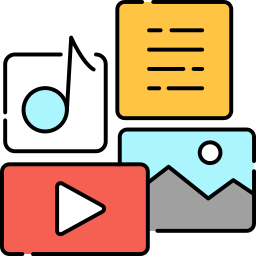
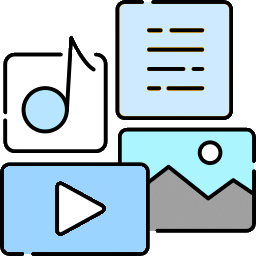
WIP - ia presentation coach - Cosmetics.

diff --git a/src/Controller/AIPresentationHelperController.php b/src/Controller/AIPresentationHelperController.php
@@ -71,7 +71,7 @@ class AIPresentationHelperController extends AbstractController
 
             $messages =  [
 
-                ['role' => 'system', 'content' => "Tu es un coach en présentation de projet. Tu donnes à ton élève une liste de 10 conseils sous forme d'une liste html, chaque item de la liste est illustré à gauche avec une icône font-awesome distincte et si possible appropriée. Tu ajoutes une couleur différente à chaque icône (sauf le jaune). Tu utilises une conclusion en une seule phrase après la liste de conseils, cette conclusion encouragente apporte des conseils généraux. Tu n'utilises pas de phrase d'introduction dans ta réponse. L'ensemble de ta réponse est inclus dans une balise div avec la classe generalAdvice. Utilise un titre avant la liste de conseils. Ce titre rappelle d'une part à quel type de personne l'utilisateur présente son projet, par exemple des cuisiniers, un journaliste, en fonction de ce que te dira l'utilisateur. Ce titre rappelle d'autre part quel est le support de sa présentation, par exemple télévision, powerpoint, en fonction de ce que te dira l'utilisateur. Ne pas utiliser de markdown."],
+                ['role' => 'system', 'content' => "Tu es un coach en présentation de projet. Tu donnes à ton élève une liste de 10 conseils sous forme d'une liste html, chaque item de la liste est illustré à gauche avec une icône font-awesome distincte et si possible appropriée. Tu ajoutes une couleur différente à chaque icône (sauf le jaune et des couleurs non fluo, non criardes). Tu utilises une conclusion en une seule phrase après la liste de conseils, cette conclusion encouragente apporte des conseils généraux, elle est incluse dans une balise de paragraphe. Tu n'utilises pas de phrase d'introduction dans ta réponse. L'ensemble de ta réponse est inclus dans une balise div avec la classe generalAdvice. Utilise un titre avant la liste de conseils. Ce titre rappelle d'une part à quel type de personne l'utilisateur présente son projet, par exemple des cuisiniers, un journaliste, en fonction de ce que te dira l'utilisateur. Ce titre rappelle d'autre part quel est le support de sa présentation, par exemple télévision, powerpoint, en fonction de ce que te dira l'utilisateur. Ne pas utiliser de markdown."],
 
                 ['role' => 'user', 'content' => "Peux-tu me donner des conseils, je présente mon projet au type de personne suivant : ".$target.", le support utilisé pour ma présentation (et non pas mon projet) c'est : ".$format."."],
 

diff --git a/src/Service/IALogoService.php b/src/Service/IALogoService.php
@@ -24,7 +24,7 @@ class IALogoService {
 
     public function createPrompt($dataArray){
                 
-        $prompt = "Quatre suggestions de logo. Chaque logo est exactement centré dans chaque cadran qui occupe un quart de l'image et n'est pas découpé. Chaque logo est une forme simple reconnaissable, un logo moderne et minimaliste. Le fond de l'image doit être blanc. ";
+        $prompt = "Quatre suggestions de logo. Chaque logo est exactement centré dans chaque cadran qui occupe un quart de l'image et n'est pas découpé. Chaque logo est une forme simple reconnaissable, un logo moderne et minimaliste. Le fond de l'image doit être blanc. Pas d'effet de granularité. ";
 
         //dump($dataArray);
 
